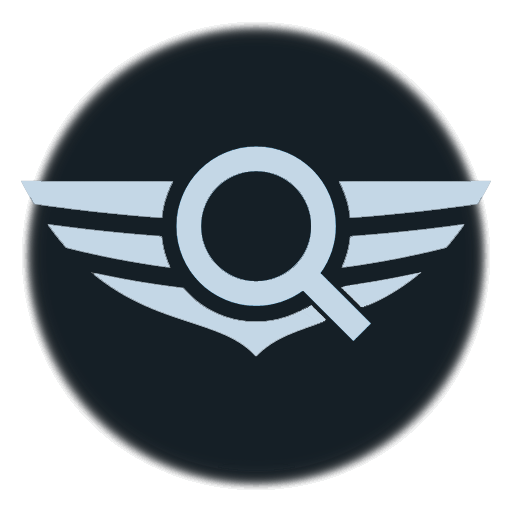
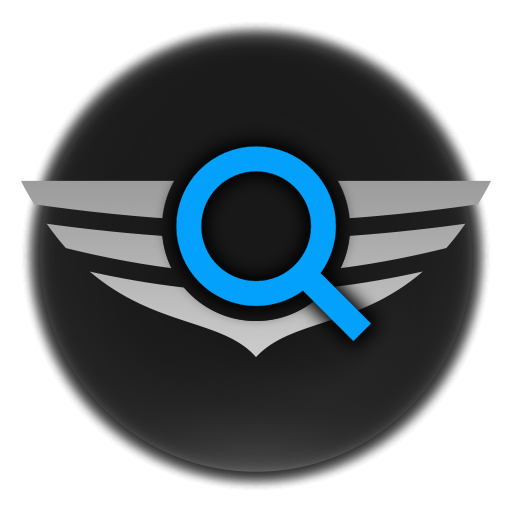
Debug

Changed region(s): [[0.0312, 0.0312, 0.9688, 0.9688]]

diff --git a/gtemps/nav.php b/gtemps/nav.php
@@ -25,7 +25,7 @@ if(strpos($base, "?option") !== false){
     <a href="<?php if($base != "contracts"){echo "https://mobitracker.co/contracts";}?>" class="navEle <?php if($base == "contracts"){echo "navActive";} ?>"><img src="https://mobitracker.co/src/contracts.png" class="menuIcon"/><p>Contracts</p></a>
     <a href="<?php if($base != "discord"){echo "https://mobitracker.co/discord";}?>" class="navEle <?php if($base == "discord"){echo "navActive";} ?>"><img src="https://mobitracker.co/src/discord.png" class="menuIcon"/><p>Discord</p></a>
     <a href="<?php if($base != "faq"){echo "https://mobitracker.co/faq";}?>" class="navEle <?php if($base == "faq"){echo "navActive";} ?>"><img src="https://mobitracker.co/src/faq.png" class="menuIcon"/><p>FAQ</p></a>
-    <a href="https://finder.deepspacecrew.com/" class="navEle" target="_blank"><img src="https://mobitracker.co/beta/src/UIF_test.png" class="menuIcon"/><p>Universal Item Finder</p></a>
+    <a href="https://finder.deepspacecrew.com/" class="navEle" target="_blank"><img src="https://mobitracker.co/beta/src/UIF_mtco.png" class="menuIcon"/><p>Universal Item Finder</p></a>
     <a href="https://patreon.com/mobitracker" class="navEle" target="_blank"><img src="https://mobitracker.co/src/patreon.png" class="menuIcon"/><p>Patreon</p></a>
   </div>
 </div>
